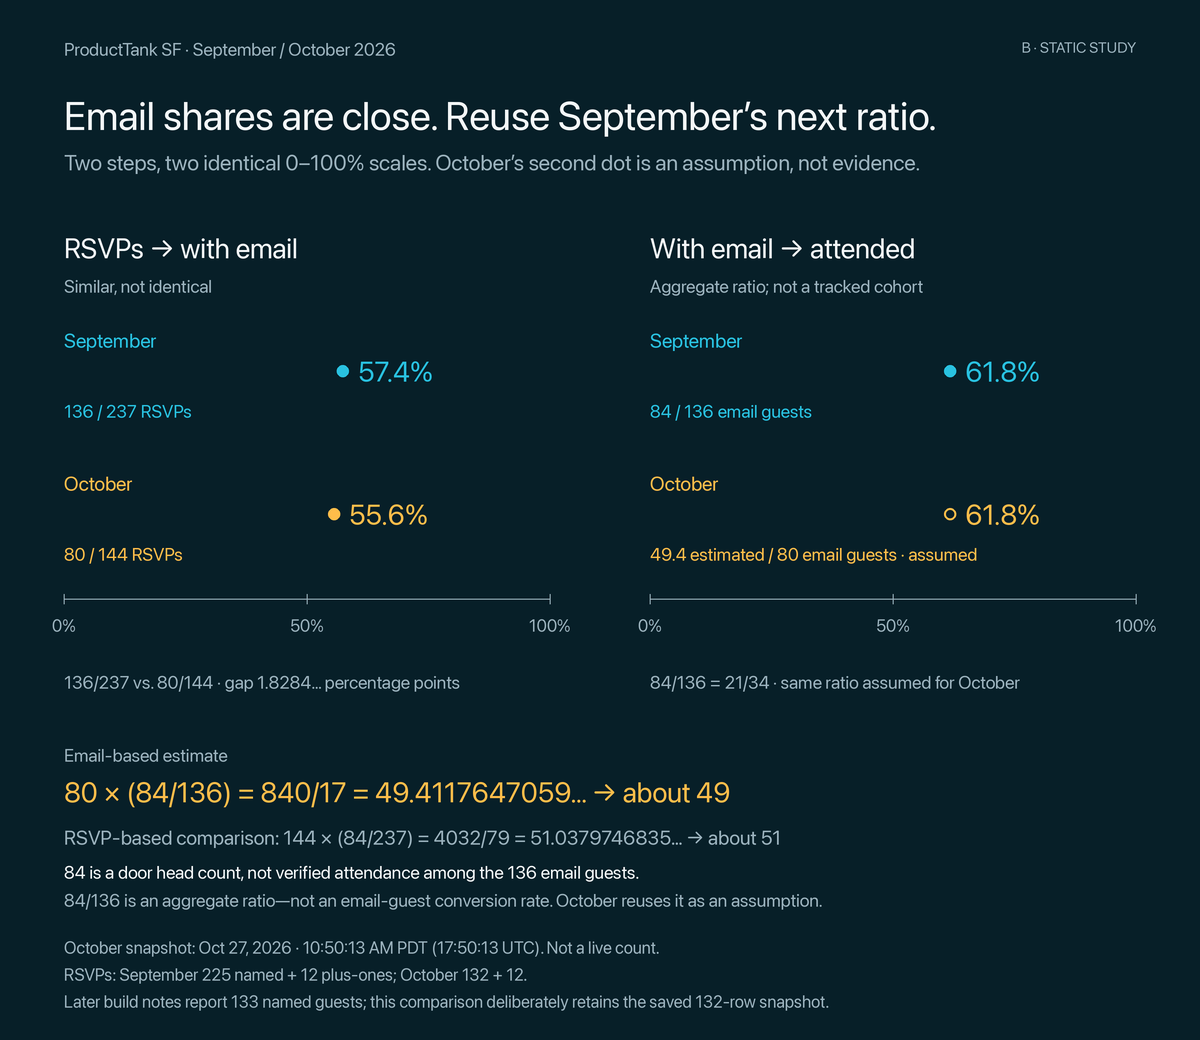
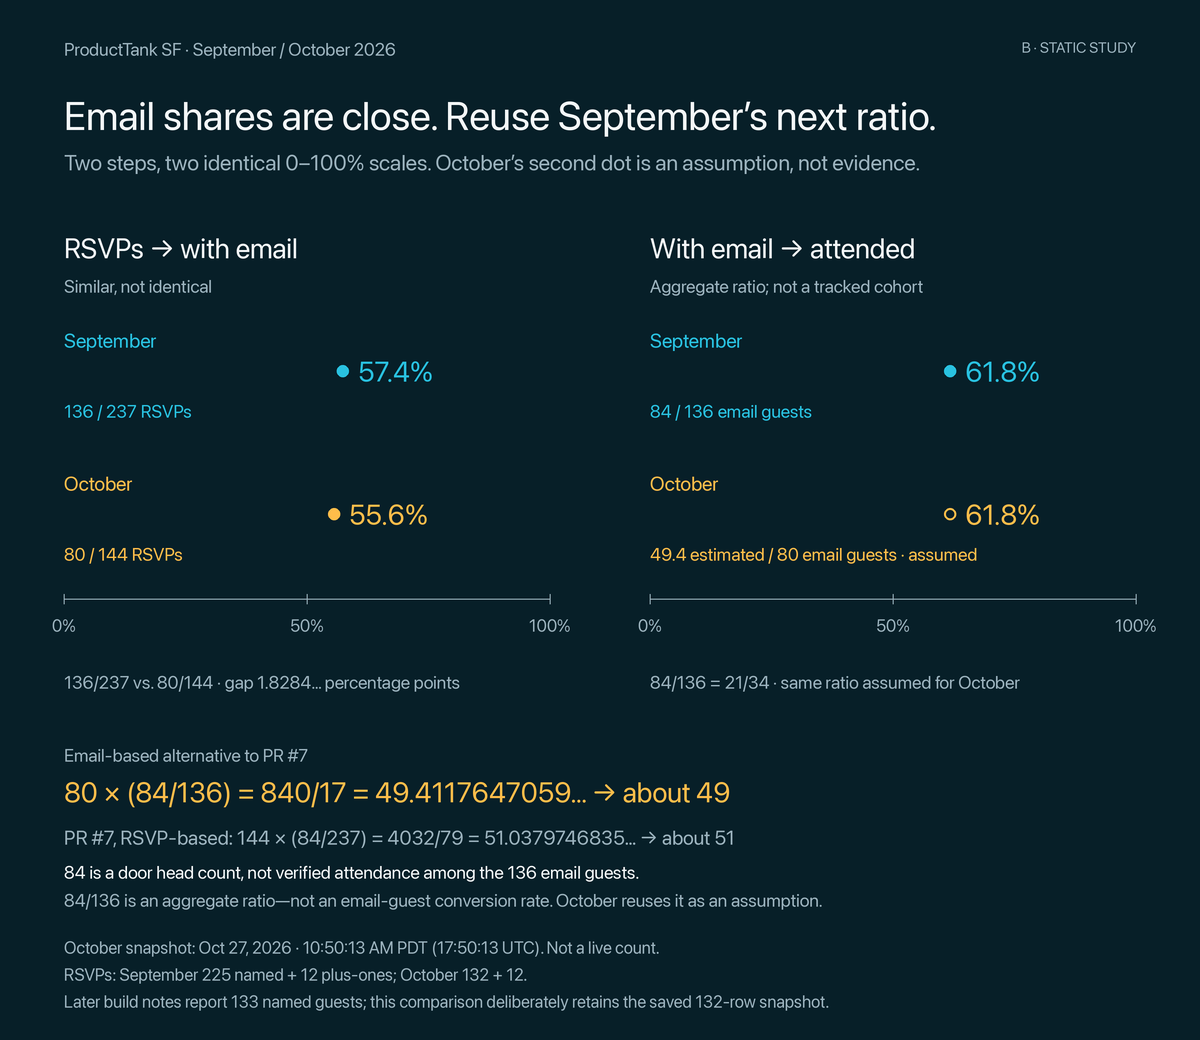
docs(rsvp-attendance): distinguish PR estimate from email alternative

Changed region(s): [[0.0617, 0.8, 0.6475, 0.8308], [0.1233, 0.7077, 0.2467, 0.7385]]

diff --git a/docs/reports/rsvp-attendance-funnel-visual-options/render_options.py b/docs/reports/rsvp-attendance-funnel-visual-options/render_options.py
@@ -75,9 +75,9 @@ class Canvas:
         self.draw.ellipse(bounds, fill=BACKGROUND if hollow else color, outline=color, width=2 * SCALE)
 
     def footer(self):
-        self.text(64, 744, "Email-based estimate", 18, MUTED)
+        self.text(64, 744, "Email-based alternative to PR #7", 18, MUTED)
         self.text(64, 775, f"{O_EMAIL} × ({ATTENDED}/{S_EMAIL}) = {ESTIMATE} = {float(ESTIMATE):.10f}… → about {round(ESTIMATE)}", 28, OCT_COLOR, bold=True)
-        self.text(64, 825, f"RSVP-based comparison: {O_TOTAL} × ({ATTENDED}/{S_TOTAL}) = {ALTERNATE} = {float(ALTERNATE):.10f}… → about {round(ALTERNATE)}", 20, MUTED)
+        self.text(64, 825, f"PR #7, RSVP-based: {O_TOTAL} × ({ATTENDED}/{S_TOTAL}) = {ALTERNATE} = {float(ALTERNATE):.10f}… → about {round(ALTERNATE)}", 20, MUTED)
         self.text(64, 861, "84 is a door head count, not verified attendance among the 136 email guests.", 18)
         self.text(64, 889, "84/136 is an aggregate ratio—not an email-guest conversion rate. October reuses it as an assumption.", 18, MUTED)
         as_of = datetime.fromisoformat(OCT["as_of"].replace("Z", "+00:00"))

diff --git a/docs/reports/rsvp-attendance-funnel-visual-options/rsvp-attendance-funnel-visual-options-comparison.md b/docs/reports/rsvp-attendance-funnel-visual-options/rsvp-attendance-funnel-visual-options-comparison.md
@@ -32,8 +32,8 @@ Fractions below are exact. Decimals with an ellipsis continue; headline percenta
 | October drop, RSVPs → with email | 64/144 = 4/9 | 44.444444444444444…% |
 | Email-share gap, September minus October | 100 × (136/237 − 5/9) = 1300/711 | 1.828410689170182… percentage points |
 | September attendees per guest with email | 84/136 = 21/34 | 61.764705882352941…% |
-| October estimate using email counts | 80 × 21/34 = 840/17 | 49.411764705882352… → about **49** |
-| October estimate using total RSVPs | 144 × 84/237 = 4032/79 | 51.037974683544303… → about **51** |
+| October email-based alternative to PR #7 | 80 × 21/34 = 840/17 | 49.411764705882352… → about **49** |
+| PR #7 estimate using total RSVPs | 144 × 84/237 = 4032/79 | 51.037974683544303… → about **51** |
 | RSVP-based estimate minus email-based estimate | 4032/79 − 840/17 = 2184/1343 | 1.626209977661950… people |
 
 **“About the same percentage drop” is fair; “the same percentage drop” is not.** October retains a smaller email share by exactly 1300/711 percentage points. The displayed 57.4% and 55.6% preserve that distinction.
@@ -43,7 +43,7 @@ Fractions below are exact. Decimals with an ellipsis continue; headline percenta
 - **49** scales attendance with the email-guest count: October has 80/136 as many email guests as September.
 - **51** scales attendance with all RSVPs: October has 144/237 as many RSVPs as September.
 - Since October’s email share is slightly lower, the email-based method yields the lower estimate. They would agree if the email shares were identical.
-- **Worktree correction:** the supplied brief called 51 the current PR estimate. This worktree’s [renderer instructions](../../../src/rsvp-slopegraph/README.md#Update%20the%20numbers) and [saved report](../rsvp-slopegraph/report.md#ProductTank%20SF%20September%20vs.%20October%20RSVPs) already use the email-based estimate of about 49. Here, 51 is a comparison method, not a claim about the current PR or remote branch.
+- **PR #7 versus this branch:** PR #7’s final head, `2be052039587a2ab31c8cf2c3eb689effe548d6d`, uses the RSVP-based estimate of **about 51**. Its [renderer](https://github.com/producttank-san-francisco/events/blob/2be052039587a2ab31c8cf2c3eb689effe548d6d/src/rsvp-slopegraph/src/rsvp_slopegraph.py) computes `round(rsvps(october) * turnout_rate(september))`, where turnout is `84/237`; its [saved report](https://github.com/producttank-san-francisco/events/blob/2be052039587a2ab31c8cf2c3eb689effe548d6d/docs/reports/rsvp-slopegraph/report.md) shows `~51`. Its [stats.json](https://github.com/producttank-san-francisco/events/blob/2be052039587a2ab31c8cf2c3eb689effe548d6d/docs/reports/rsvp-slopegraph/stats.json) contains the same observed input counts, not a stored October attendance estimate. The **49** email-based method is the alternative to that PR. This worktree already includes the PR’s final head **plus** the later email-based change `dc44c7f`, reflected in its [renderer instructions](../../../src/rsvp-slopegraph/README.md#Update%20the%20numbers). After `git fetch origin`, `git merge-base --is-ancestor 2be0520 HEAD` succeeded, so this branch was not older and no merge was needed. The earlier wording that treated this worktree’s 49 as a correction to the brief’s PR value was wrong; the two branch states differ.
 
 ## Assumptions and limits
 
